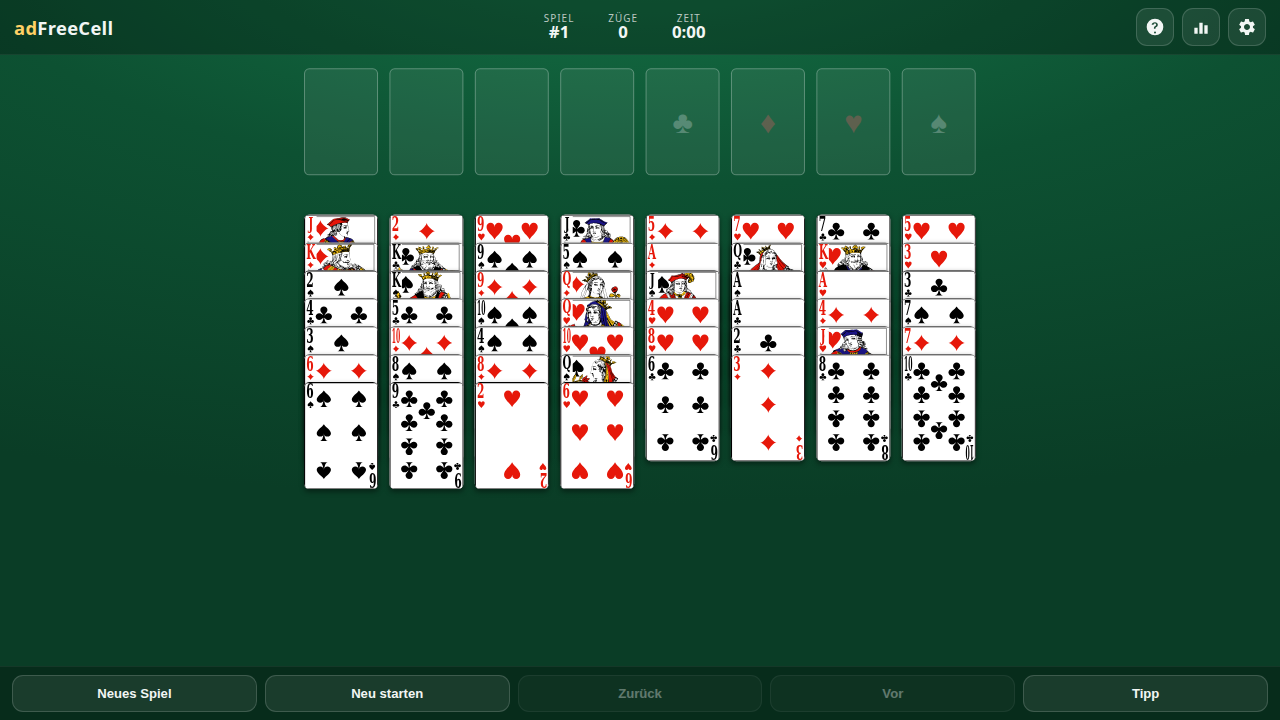
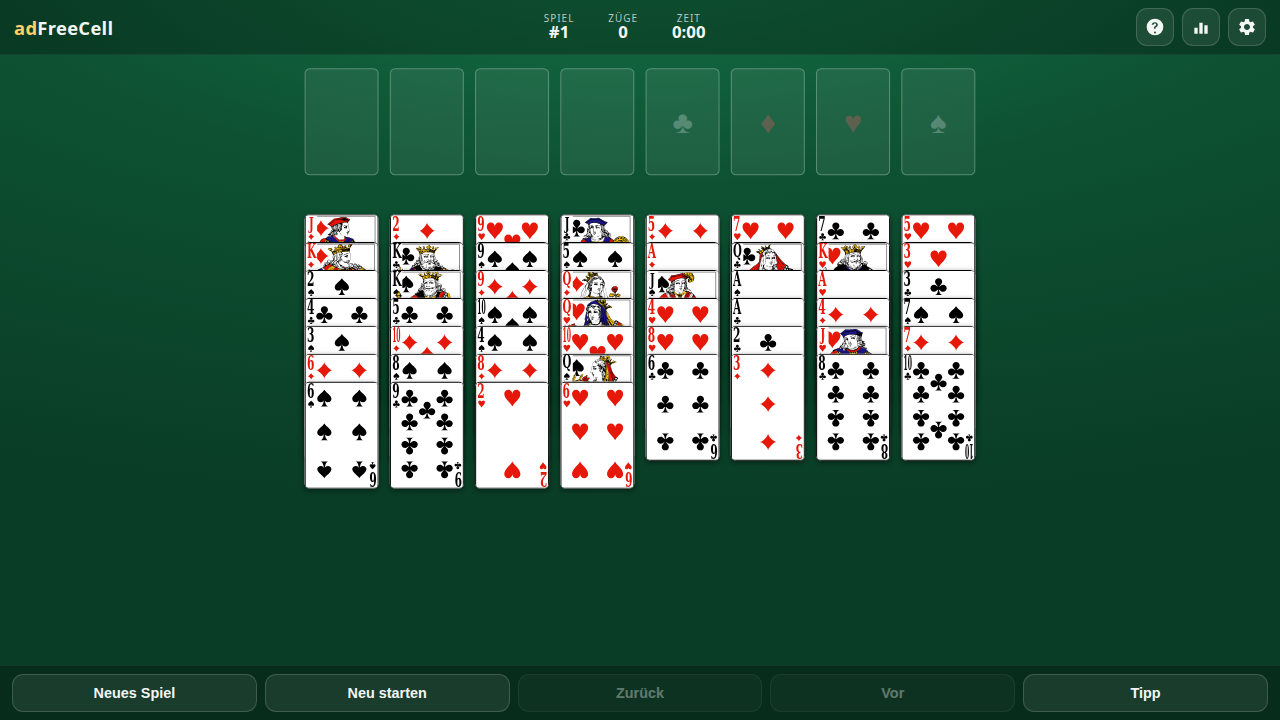
Force landscape, fix control-bar overflow, prevent card distortion
- Landscape is now the intended orientation: portrait on touch devices shows a
  "rotate your device" hint (pure CSS, no broken layout); manifest orientation
  set to "landscape" for installed PWAs.
- Control bar: buttons shrink gracefully (ellipsis) instead of overlapping on
  narrow widths; labels fit fully in landscape.
- Cards: drop preserveAspectRatio="none" so the artwork can never be stretched
  on fractional-DPI displays or under browser zoom (box already matches the
  native 169.075:244.64 ratio, so it fills exactly with the safe default).
- README: replace the cramped portrait screenshot with a landscape one.
- Bump service-worker cache to adfreecell-v2.

diff --git a/css/style.css b/css/style.css
@@ -157,20 +157,22 @@ html, body {
   padding-bottom: calc(8px + env(safe-area-inset-bottom));
   background: var(--bar);
   border-top: 1px solid rgba(255, 255, 255, 0.06);
-  overflow-x: auto;
+  overflow: hidden;
 }
 .ctl {
   flex: 1 1 0;
-  min-width: 64px;
+  min-width: 0;                 /* allow shrinking so labels never overflow */
   padding: 10px 6px;
   border-radius: 11px;
   border: 1px solid var(--line);
   background: rgba(255, 255, 255, 0.08);
   color: var(--text);
-  font-size: 0.82rem;
+  font-size: clamp(0.72rem, 1.9vw, 0.9rem);
   font-weight: 700;
   cursor: pointer;
   white-space: nowrap;
+  overflow: hidden;
+  text-overflow: ellipsis;      /* worst case: ellipsis, not overlap */
   transition: background .12s ease, transform .12s ease, opacity .12s;
 }
 .ctl:hover { background: rgba(255, 255, 255, 0.16); }
@@ -299,6 +301,41 @@ html, body {
 .toast.show { opacity: 1; transform: translateX(-50%) translateY(0); }
 
 .fx-canvas { position: fixed; inset: 0; pointer-events: none; z-index: 55; }
+
+/* ---------------- rotate-to-landscape notice ---------------- */
+/* adFreeCell is a landscape game. On a touch device held in portrait we cover
+   the board with a friendly "please rotate" hint instead of cramming 8 columns
+   into a narrow width. Desktop (fine pointer) is never affected. */
+#rotate-notice {
+  position: fixed;
+  inset: 0;
+  z-index: 200;
+  display: none;
+  align-items: center;
+  justify-content: center;
+  text-align: center;
+  padding: 24px;
+  background: linear-gradient(180deg, var(--felt-a), var(--felt-c));
+  color: var(--text);
+}
+.rotate-inner { max-width: 320px; }
+.rotate-inner h2 { font-size: 1.35rem; margin: 18px 0 8px; }
+.rotate-inner p { color: var(--muted); line-height: 1.5; }
+.rotate-ico {
+  width: 84px; height: 84px;
+  fill: var(--accent);
+  transform-origin: 50% 50%;
+  animation: rotatehint 2.6s ease-in-out infinite;
+}
+@keyframes rotatehint {
+  0%, 38% { transform: rotate(0deg); }
+  58%, 92% { transform: rotate(-90deg); }
+  100% { transform: rotate(0deg); }
+}
+
+@media (orientation: portrait) and (pointer: coarse) {
+  #rotate-notice { display: flex; }
+}
 
 /* Landscape phones: tighten the bars so the board gets the room */
 @media (max-height: 520px) {

diff --git a/index.html b/index.html
@@ -162,6 +162,15 @@
 
     <div id="toast" class="toast"></div>
     <canvas id="fx-canvas" class="fx-canvas"></canvas>
+
+    <!-- Shown on touch devices held in portrait: adFreeCell is a landscape game -->
+    <div id="rotate-notice">
+      <div class="rotate-inner">
+        <svg class="rotate-ico" viewBox="0 0 24 24" aria-hidden="true"><path d="M17 1.5H7A2.5 2.5 0 0 0 4.5 4v16A2.5 2.5 0 0 0 7 22.5h10a2.5 2.5 0 0 0 2.5-2.5V4A2.5 2.5 0 0 0 17 1.5zM12 21a1 1 0 1 1 0-2 1 1 0 0 1 0 2zM17.5 18h-11V4h11z"/></svg>
+        <h2 data-i18n="rotateTitle">Bitte Gerät drehen</h2>
+        <p data-i18n="rotateText">adFreeCell wird im Querformat gespielt.</p>
+      </div>
+    </div>
   </div>
 
   <script src="js/cards-sprite.js"></script>

diff --git a/js/i18n.js b/js/i18n.js
@@ -34,6 +34,7 @@
       cardsLicense: 'Kartengrafik: „SVG-cards“ von David Bellot (LGPL-2.1).',
       installApp: 'App installieren', shareApp: 'Weiterempfehlen', linkCopied: 'Link kopiert!',
       supportDev: 'Entwickler unterstützen',
+      rotateTitle: 'Bitte Gerät drehen', rotateText: 'adFreeCell wird im Querformat gespielt.',
     },
     en: {
       tagline: 'FreeCell. No ad banner. No trackers. Just cards.',
@@ -65,6 +66,7 @@
       cardsLicense: 'Card artwork: “SVG-cards” by David Bellot (LGPL-2.1).',
       installApp: 'Install app', shareApp: 'Recommend', linkCopied: 'Link copied!',
       supportDev: 'Support the developer',
+      rotateTitle: 'Please rotate your device', rotateText: 'adFreeCell is played in landscape.',
     },
     es: {
       tagline: 'FreeCell. Sin anuncios. Sin rastreadores. Solo cartas.',
@@ -96,6 +98,7 @@
       cardsLicense: 'Cartas: «SVG-cards» de David Bellot (LGPL-2.1).',
       installApp: 'Instalar app', shareApp: 'Recomendar', linkCopied: 'Enlace copiado',
       supportDev: 'Apoyar al desarrollador',
+      rotateTitle: 'Gira el dispositivo', rotateText: 'adFreeCell se juega en horizontal.',
     },
     fr: {
       tagline: 'FreeCell. Sans pub. Sans traqueurs. Juste des cartes.',
@@ -127,6 +130,7 @@
       cardsLicense: 'Cartes : « SVG-cards » de David Bellot (LGPL-2.1).',
       installApp: 'Installer l’app', shareApp: 'Recommander', linkCopied: 'Lien copié',
       supportDev: 'Soutenir le développeur',
+      rotateTitle: 'Tournez l’appareil', rotateText: 'adFreeCell se joue en mode paysage.',
     },
     it: {
       tagline: 'FreeCell. Niente pubblicità. Niente tracker. Solo carte.',
@@ -158,6 +162,7 @@
       cardsLicense: 'Carte: «SVG-cards» di David Bellot (LGPL-2.1).',
       installApp: 'Installa app', shareApp: 'Consiglia', linkCopied: 'Link copiato',
       supportDev: 'Sostieni lo sviluppatore',
+      rotateTitle: 'Ruota il dispositivo', rotateText: 'adFreeCell si gioca in orizzontale.',
     },
   };
 

diff --git a/js/game.js b/js/game.js
@@ -172,7 +172,9 @@
         el.className = 'card';
         el.dataset.uid = id;
         var svgId = D.SUIT_ID[suit] + '_' + D.RANK_ID[rank];
-        el.innerHTML = '<svg viewBox="0 0 169.075 244.640" preserveAspectRatio="none">' +
+        // default preserveAspectRatio (xMidYMid meet) never distorts; the card
+        // box already matches the native 169.075:244.64 ratio, so it fills exactly.
+        el.innerHTML = '<svg viewBox="0 0 169.075 244.640">' +
           '<use href="#' + svgId + '" xlink:href="#' + svgId + '"/></svg>';
         cardEls[id] = el;
         cardsLayer.appendChild(el);

diff --git a/sw.js b/sw.js
@@ -1,7 +1,7 @@
 /* adFreeCell - service worker for offline play (PWA).
    Cache-first for the app shell so the game works with no network. Bump
    CACHE_VERSION whenever assets change to roll the cache. */
-const CACHE_VERSION = 'adfreecell-v1';
+const CACHE_VERSION = 'adfreecell-v2';
 
 const ASSETS = [
   './',

diff --git a/README.md b/README.md
@@ -12,7 +12,7 @@ tablets while looking great on widescreen.
   <img src="screenshots/board.png" alt="adFreeCell on a widescreen — Game #1" width="640" />
 </p>
 <p align="center">
-  <img src="screenshots/mobile.png" alt="adFreeCell on a phone in portrait" width="220" />
+  <img src="screenshots/landscape.png" alt="adFreeCell on a phone in landscape" width="460" />
 </p>
 
 ## ▶️ Play online
@@ -51,9 +51,10 @@ completely offline, thanks to a service worker that caches the whole game.
 - **Undo / redo / restart** and an optimal-ish **hint**.
 - **Statistics:** games played and won, win rate, current & best streak, best
   time and fewest moves — stored locally.
-- **Made for every screen.** Fluid layout scales from small phones (portrait or
-  landscape) to tablets and widescreen desktops. Card size and fan spacing are
-  computed to always fit without scrolling.
+- **Made for every screen.** A fluid **landscape** layout scales from small
+  phones to tablets and widescreen desktops; card size and fan spacing are
+  computed to always fit without scrolling. Held in portrait, a touch device
+  shows a friendly “rotate your device” hint (FreeCell wants the width).
 - **Three table themes:** Felt, Midnight and Slate.
 - **5 languages:** German, English, Spanish, French and Italian (auto-detected).
 - **Synthesized sound** via the Web Audio API — no audio files, works offline.